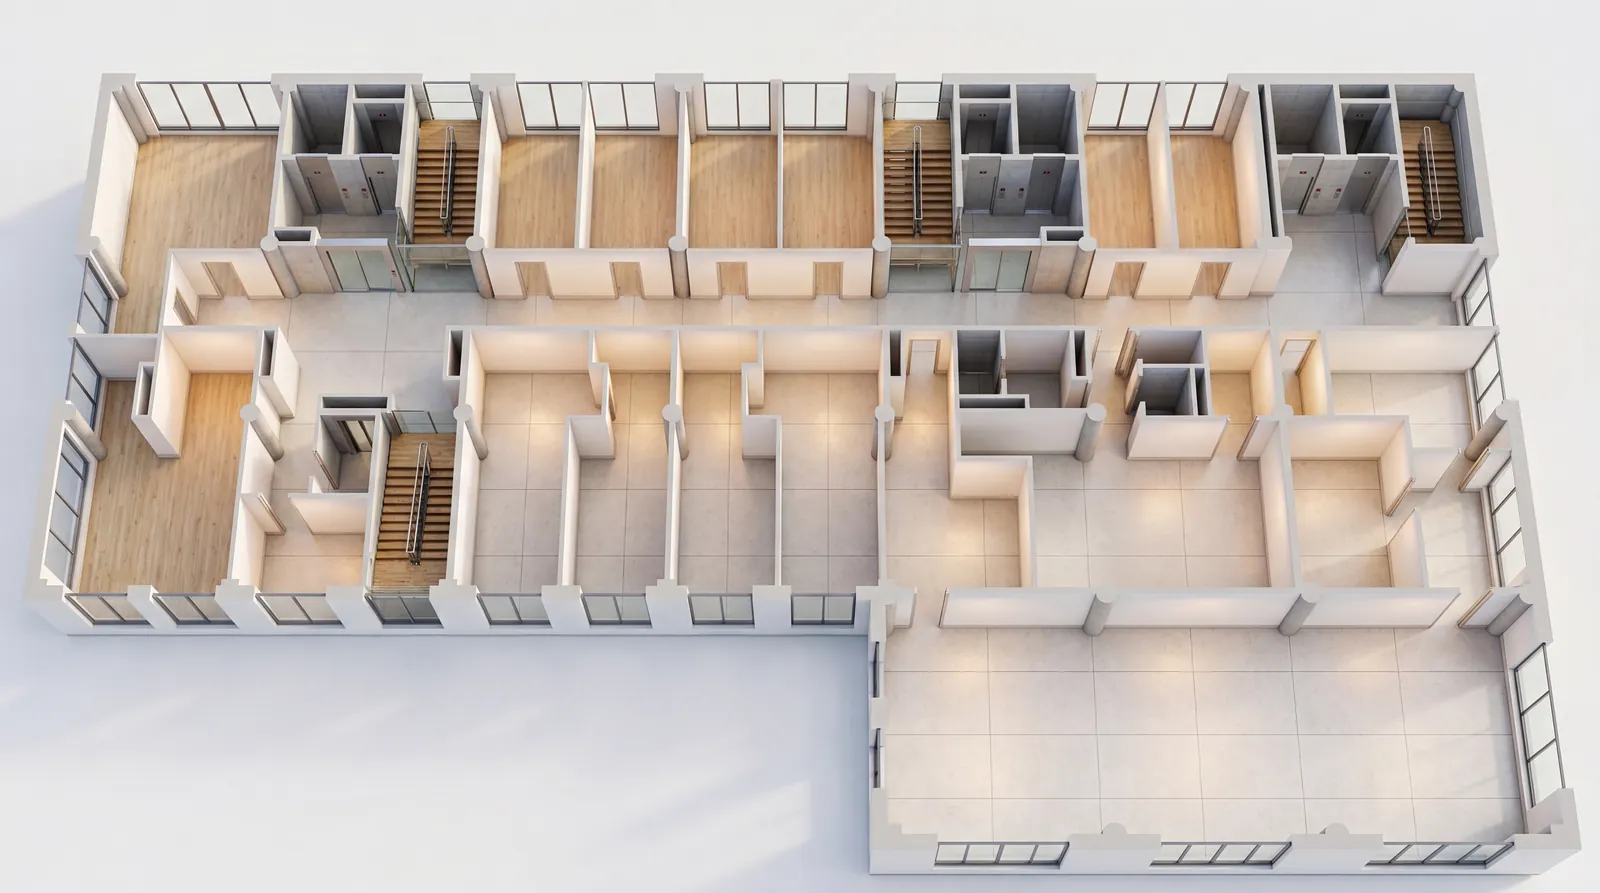
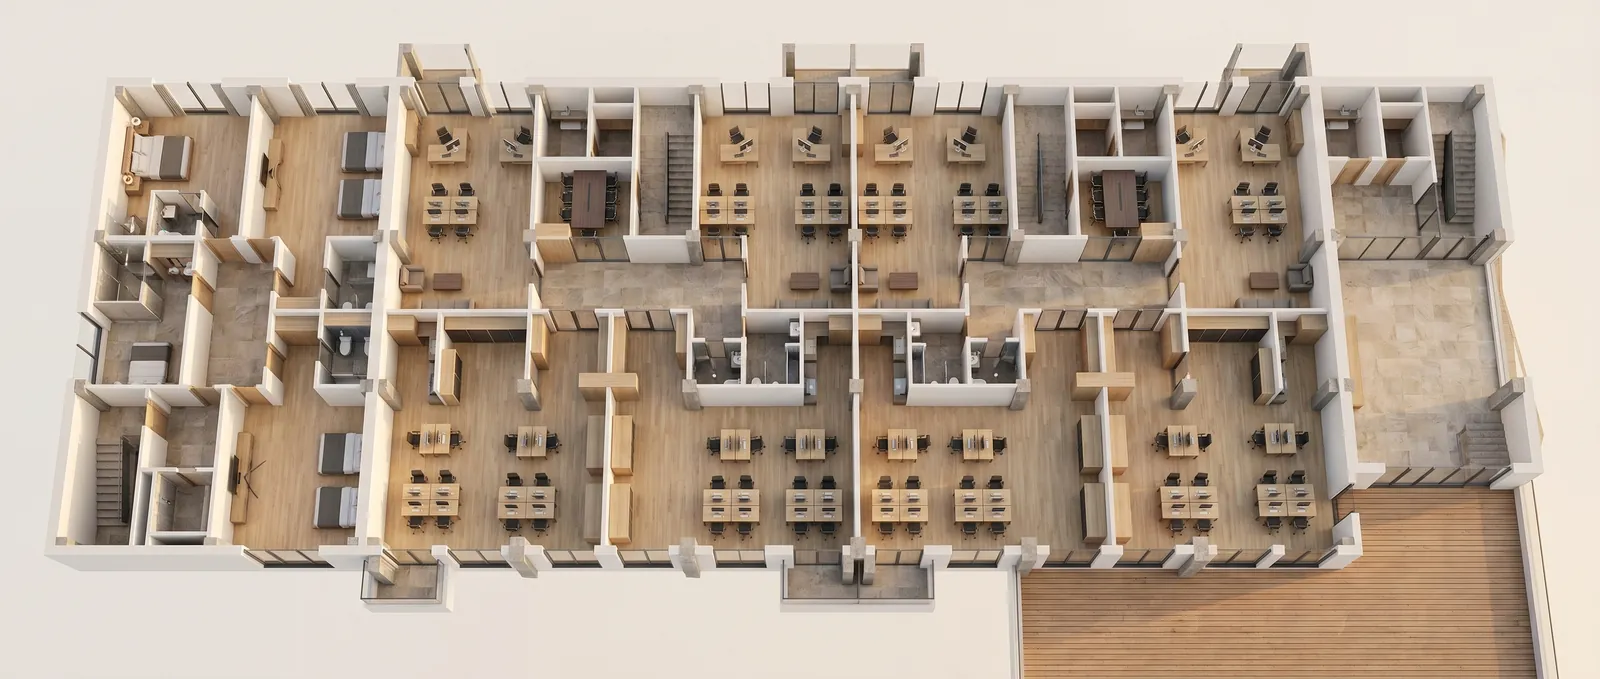
Swap residence/office renders; update developer details
- Residences explorer image -> Apartment.png
- Office explorer image -> Floor 5 furnished render
- Developer body date -> 2026.06; trust list -> 'Газар · 3,175 m²' and
  'Operational Q4 2027' across mn/zh/en.

diff --git a/app.js b/app.js
@@ -94,8 +94,8 @@
       'num.cost':'Бүтээн байгуулалтын өртөг','num.revenue':'Нэгжийн үнэ ба өгөөж','num.irr':'Орлогын загвар ба IRR','num.gated.note':'Шалгарсан хөрөнгө оруулагч, түншүүдтэй хуваалцана.','num.unlock':'Санхүүг нээх',
 
       'sec.dev.eyebrow':'05 — ХӨГЖҮҮЛЭГЧ','sec.dev.title':'JTSG ХХК хэрэгжүүлж байна.','dev.legal':'ЖЭЙ ТИ ЭС Жи ХХК',
-      'dev.body':'NOMT-ыг ЖЭЙ ТИ ЭС Жи ХХК хөгжүүлж байна. 3,175 м² талбай баталгаажсан, барилгын иж бүрэн зураг төсөл бэлэн (2026 оны 2 сар), барилга нь Улаанбаатарын уур амьсгалд тохирсон.',
-      'trust.land':'Газар баталгаажсан · 3,175 m²','trust.set':'Зураг төсөл бэлэн · 2026.02','trust.seismic':'Газар хөдлөлт 8 балл · −36 °C','trust.grade':'А зэрэглэлийн байршил',
+      'dev.body':'NOMT-ыг ЖЭЙ ТИ ЭС Жи ХХК хөгжүүлж байна. 3,175 м² талбай баталгаажсан, барилгын иж бүрэн зураг төсөл бэлэн (2026 оны 6 сар), барилга нь Улаанбаатарын уур амьсгалд тохирсон.',
+      'trust.land':'Газар · 3,175 m²','trust.set':'Зураг төсөл бэлэн · 2026.02','trust.seismic':'2027 оны 4-р улиралд ашиглалтад орно','trust.grade':'А зэрэглэлийн байршил',
       'dev.spec.struct':'Цутгамал ТӨ хүрээ','dev.spec.facade':'Метал + шил фасад','dev.spec.fire':'Гал/бат бөх II зэрэг','dev.img.alt':'NOMT цогцолборын гадна төрх','dev.img.cap':'NOMT · Уран сайхны төсөөлөл',
 
       'sec.partner.eyebrow':'08 — ХАМТРАЛ','partner.head':'Бүрэн танилцуулгыг аваарай.','partner.body':'Төлөвлөлтийн зураг, орлогын загвар, өртөг ба өгөөжийн тооцоо, нэгжийн үнэ, төлбөрийн нөхцөл — шалгарсан хөрөнгө оруулагч, түншүүдэд хүсэлтээр илгээнэ.',
@@ -173,8 +173,8 @@
       'num.cost':'开发成本','num.revenue':'单元价格与收益','num.irr':'收益模型与IRR','num.gated.note':'向合格投资者与合作伙伴提供。','num.unlock':'解锁财务',
 
       'sec.dev.eyebrow':'05 — 开发商','sec.dev.title':'由JTSG有限责任公司开发建设。','dev.legal':'JTSG 有限责任公司',
-      'dev.body':'NOMT由JTSG LLC开发。3,175平方米地块已落实，全套建筑设计已于2026年2月完成，并针对乌兰巴托气候设计。',
-      'trust.land':'土地已落实 · 3,175 m²','trust.set':'设计完成 · 2026.02','trust.seismic':'抗震8度 · −36 °C','trust.grade':'A级地段',
+      'dev.body':'NOMT由JTSG LLC开发。3,175平方米地块已落实，全套建筑设计已于2026年6月完成，并针对乌兰巴托气候设计。',
+      'trust.land':'土地 · 3,175 m²','trust.set':'设计完成 · 2026.02','trust.seismic':'2027年第四季度交付使用','trust.grade':'A级地段',
       'dev.spec.struct':'现浇钢混框架','dev.spec.facade':'金属 + 玻璃幕墙','dev.spec.fire':'防火/耐久II级','dev.img.alt':'NOMT综合体外观','dev.img.cap':'NOMT · 艺术效果图',
 
       'sec.partner.eyebrow':'08 — 合作','partner.head':'获取完整投资资料包。','partner.body':'平面图、收益模型、成本与回报预测、单元价格、付款条件——应合格投资者与合作伙伴的请求发送。',
@@ -252,8 +252,8 @@
       'num.cost':'Development cost','num.revenue':'Unit pricing & yield','num.irr':'Income model & IRR','num.gated.note':'Shared with qualified investors and partners.','num.unlock':'Unlock the financials',
 
       'sec.dev.eyebrow':'05 — DEVELOPER','sec.dev.title':'Built and delivered by JTSG LLC.','dev.legal':'JTSG LLC',
-      'dev.body':'NOMT is developed by JTSG LLC. The 3,175 m² site is secured, the full architectural set is complete (February 2026), and the building is engineered for the Ulaanbaatar climate.',
-      'trust.land':'Land secured · 3,175 m²','trust.set':'Architectural set complete · 2026.02','trust.seismic':'Seismic grade 8 · −36 °C','trust.grade':'A-grade location',
+      'dev.body':'NOMT is developed by JTSG LLC. The 3,175 m² site is secured, the full architectural set is complete (June 2026), and the building is engineered for the Ulaanbaatar climate.',
+      'trust.land':'Land · 3,175 m²','trust.set':'Architectural set complete · 2026.02','trust.seismic':'Operational Q4 2027','trust.grade':'A-grade location',
       'dev.spec.struct':'Cast RC frame','dev.spec.facade':'Metal + glass facade','dev.spec.fire':'Fire/durability grade II','dev.img.alt':'Exterior of the NOMT complex','dev.img.cap':"NOMT · Artist's impression",
 
       'sec.partner.eyebrow':'08 — PARTNER','partner.head':'Get the full investor pack.','partner.body':'Floor plans, the income model, cost and return projections, unit pricing and payment terms — sent to qualified investors and partners on request.',

diff --git a/nomt.html b/nomt.html
@@ -360,7 +360,7 @@
       <ul class="grid sm:grid-cols-2 gap-px bg-hair/60 ring-1 ring-hair">
         <li class="bg-ink px-4 py-3.5"><span data-i18n="trust.land" class="block text-paper text-sm">Газар · 3,175 m²</span></li>
         <li class="bg-ink px-4 py-3.5"><span data-i18n="trust.set" class="block text-paper text-sm">Зураг төсөл бэлэн </span></li>
-        <li class="bg-ink px-4 py-3.5"><span data-i18n="trust.seismic" class="block text-paper text-sm">Газар хөдлөлт 8 балл · −36 °C</span></li>
+        <li class="bg-ink px-4 py-3.5"><span data-i18n="trust.seismic" class="block text-paper text-sm">2027 оны 4-р улиралд ашиглалтад орно</span></li>
         <li class="bg-ink px-4 py-3.5"><span data-i18n="trust.grade" class="block text-paper text-sm">А зэрэглэлийн байршил</span></li>
       </ul>
       <ul class="flex flex-wrap gap-x-5 gap-y-2 mt-6 text-mist-dim font-mono text-[11px] tracking-[0.08em]">
